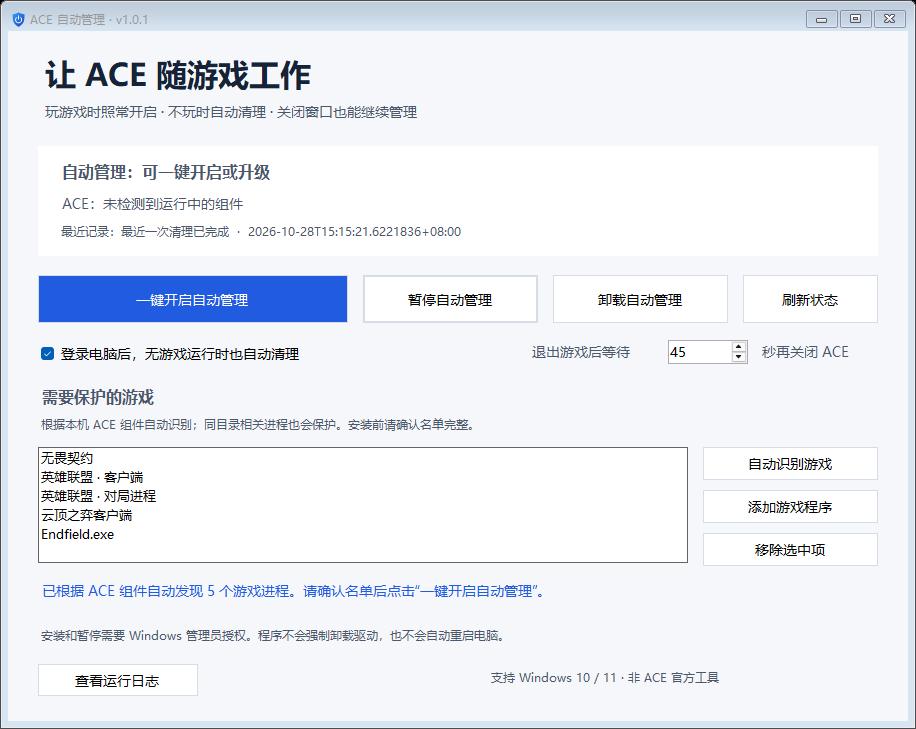
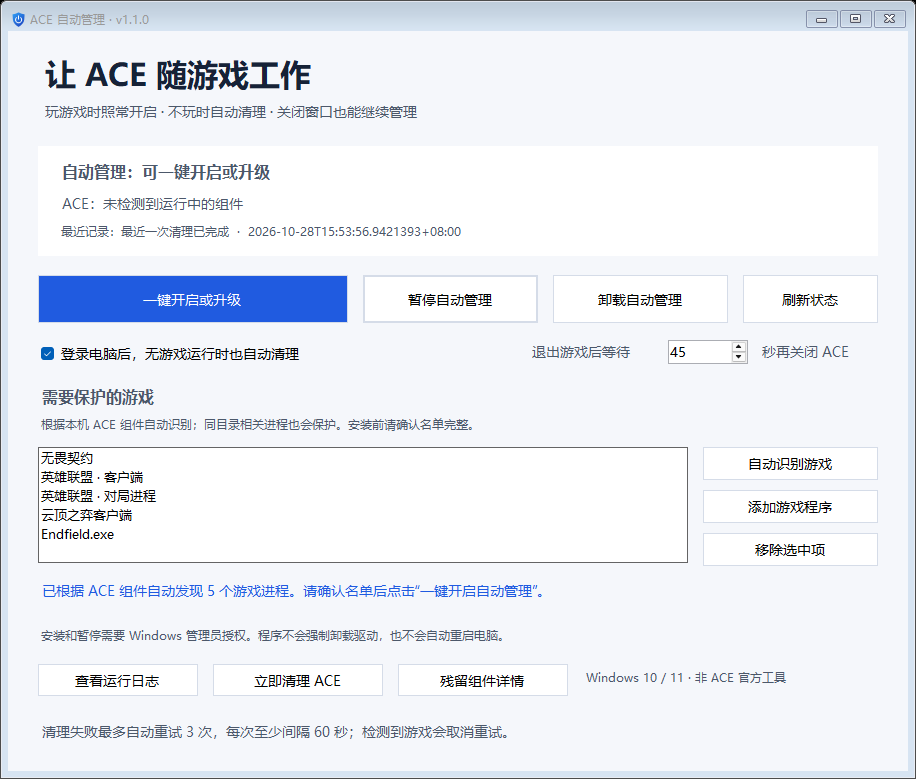
Add guarded manual cleanup, bounded retries and executable removal

diff --git a/src/Program.cs b/src/Program.cs
@@ -14,8 +14,8 @@ using System.Web.Script.Serialization;
 using Microsoft.Win32;
 
 [assembly: AssemblyTitle("ACE 自动管理")]
-[assembly: AssemblyVersion("1.0.1.0")]
-[assembly: AssemblyFileVersion("1.0.1.0")]
+[assembly: AssemblyVersion("1.1.0.0")]
+[assembly: AssemblyFileVersion("1.1.0.0")]
 
 namespace AceAutoManager {
     public class Settings {
@@ -40,6 +40,14 @@ namespace AceAutoManager {
                 if (stream == null) throw new IOException("缺少内置资源：" + name);
                 using (var reader = new StreamReader(stream, Encoding.UTF8)) return reader.ReadToEnd();
             }
+        }
+        internal static void ScheduleLauncherRemoval() {
+            string path=Application.ExecutablePath, hash;
+            using(var sha=System.Security.Cryptography.SHA256.Create())
+            using(var file=File.OpenRead(path)) { hash=BitConverter.ToString(sha.ComputeHash(file)).Replace("-",""); }
+            string script=Payload("Remove-Launcher.ps1").Replace("__TARGET_BASE64__",Convert.ToBase64String(Encoding.Unicode.GetBytes(path))).Replace("__EXPECTED_HASH__",hash);
+            var info=new ProcessStartInfo(PowerShell,"-NoProfile -NonInteractive -WindowStyle Hidden -EncodedCommand "+Convert.ToBase64String(Encoding.Unicode.GetBytes(script))){UseShellExecute=false,CreateNoWindow=true};
+            using(var process=Process.Start(info)) { if(process==null)throw new IOException("无法启动 EXE 删除程序。后台任务已卸载，请手动删除 EXE。"); }
         }
         // 管理员临时目录也限制为管理员和 SYSTEM 可写。
         internal static string Extract(bool protect) {
@@ -78,10 +86,11 @@ namespace AceAutoManager {
                 string dir = null;
                 try {
                     if (!new WindowsPrincipal(WindowsIdentity.GetCurrent()).IsInRole(WindowsBuiltInRole.Administrator)) throw new Exception("未获得管理员权限。");
-                    if (!new [] {"Install","Pause","Remove"}.Contains(args[1])) throw new Exception("无效操作。");
+                    if (!new [] {"Install","Pause","Remove","Clean"}.Contains(args[1])) throw new Exception("无效操作。");
                     dir = Extract(true);
                     var result = Json.Deserialize<Dictionary<string,object>>(RunBackend(dir,args[1],args[2]));
                     bool ok = result.ContainsKey("ok") && (bool)result["ok"];
+                    if(ok && args[1]=="Remove") ScheduleLauncherRemoval();
                     if (!ok) MessageBox.Show(Convert.ToString(result["message"]),"操作未完成",MessageBoxButtons.OK,MessageBoxIcon.Warning);
                     return ok ? 0 : 1;
                 } catch(Exception e) { MessageBox.Show(e.Message,"操作未完成",MessageBoxButtons.OK,MessageBoxIcon.Error); return 1; }
@@ -112,7 +121,8 @@ namespace AceAutoManager {
     public class MainForm : Form {
         readonly Color blue = Color.FromArgb(32,91,224);
         Label manager, ace, activity, feedback;
-        Button enable, pause, remove, detect, add, drop;
+        Button enable, pause, remove, detect, add, drop, clean, details;
+        string componentDetails="尚未读取组件状态。";
         CheckBox login;
         NumericUpDown delay;
         ListBox games;
@@ -123,7 +133,7 @@ namespace AceAutoManager {
         Settings settings = new Settings();
 
         public MainForm(bool test) {
-            Text="ACE 自动管理 · v1.0.1"; ClientSize=new Size(900,690); MinimumSize=new Size(916,729); MaximumSize=new Size(916,729);
+            Text="ACE 自动管理 · v1.1.0"; ClientSize=new Size(900,740); MinimumSize=new Size(916,779); MaximumSize=new Size(916,779);
             using (var stream = Assembly.GetExecutingAssembly().GetManifestResourceStream("app.ico"))
             using (var icon = new Icon(stream)) { Icon = (Icon)icon.Clone(); }
             AutoScaleMode=AutoScaleMode.None; Font=new Font("Microsoft YaHei UI",10F); BackColor=Color.FromArgb(245,247,251); StartPosition=FormStartPosition.CenterScreen;
@@ -138,7 +148,7 @@ namespace AceAutoManager {
             remove=ButtonAt("卸载自动管理",545,244,175,48);
             var status=ButtonAt("刷新状态",735,244,135,48);
             enable.Click += async(s,e)=>await Manage("Install"); pause.Click += async(s,e)=>await Manage("Pause");
-            remove.Click += async(s,e)=> { if(MessageBox.Show("停止并移除自动任务？ACE 本体不会被卸载，日志会保留。","卸载自动管理",MessageBoxButtons.YesNo,MessageBoxIcon.Question)==DialogResult.Yes) await Manage("Remove"); };
+            remove.Click += async(s,e)=> { if(MessageBox.Show("卸载后台任务，关闭此窗口，并删除当前运行的 EXE？\nACE 本体不会被卸载，配置和日志保留，其他位置的 EXE 副本不会删除。","卸载自动管理",MessageBoxButtons.YesNo,MessageBoxIcon.Question)==DialogResult.Yes) await Manage("Remove"); };
             status.Click += async(s,e)=>await RefreshStatus();
             login=new CheckBox {Text="登录电脑后，无游戏运行时也自动清理",Bounds=new Rectangle(33,309,460,29),Checked=true}; Controls.Add(login);
             LabelAt("退出游戏后等待",520,310,135,27,10,false);
@@ -156,7 +166,12 @@ namespace AceAutoManager {
             LabelAt("安装和暂停需要 Windows 管理员授权。程序不会强制卸载驱动，也不会自动重启电脑。",30,596,840,23,9,false);
             var log=ButtonAt("查看运行日志",30,633,160,32);
             log.Click+=(s,e)=>{string p=Path.Combine(Program.Data,"monitor.log");if(File.Exists(p)) Process.Start(new ProcessStartInfo("notepad.exe",Program.Quote(p)));else MessageBox.Show("暂时没有日志。");};
-            LabelAt("支持 Windows 10 / 11 · 非 ACE 官方工具",480,638,390,24,9,false);
+            LabelAt("Windows 10 / 11 · 非 ACE 官方工具",575,638,300,24,9,false);
+            clean=ButtonAt("立即清理 ACE",205,633,170,32);
+            details=ButtonAt("残留组件详情",390,633,170,32);
+            clean.Click+=async(s,e)=>await Manage("Clean");
+            details.Click+=async(s,e)=>{await RefreshStatus();if(!closed)MessageBox.Show(componentDetails,"ACE 残留组件 · 实时查询",MessageBoxButtons.OK,MessageBoxIcon.Information);};
+            LabelAt("清理失败最多自动重试 3 次，每次至少间隔 60 秒；检测到游戏会取消重试。",30,690,840,27,10,false);
             LoadSettings();
             if (!test) {
                 runtime=Program.Extract(false);
@@ -204,16 +219,17 @@ namespace AceAutoManager {
         async Task Manage(string mode) {
             if(busy||discovering)return;
             if(mode=="Install" && games.Items.Count==0) {MessageBox.Show("还没有识别到游戏。请先点击“自动识别游戏”，或手动添加游戏主程序。");return;}
-            busy=true;foreach(var b in new[]{enable,pause,remove,detect,add,drop})b.Enabled=false;
+            busy=true;foreach(var b in new[]{enable,pause,remove,detect,add,drop,clean})b.Enabled=false;
             feedback.Text="请完成 Windows 管理员授权，操作正在进行…";
             string request=Path.Combine(Path.GetTempPath(),"AceManager-request-"+Guid.NewGuid().ToString("N")+".json");
             try {
                 File.WriteAllText(request,Program.Json.Serialize(MakeSettings()),new UTF8Encoding(true));
                 int code=await Task.Run(()=>{var info=new ProcessStartInfo(Application.ExecutablePath,"--admin "+mode+" "+Program.Quote(request)){UseShellExecute=true,Verb="runas",WindowStyle=ProcessWindowStyle.Hidden};using(var p=Process.Start(info)){p.WaitForExit();return p.ExitCode;}});
-                feedback.Text=code==0 ? (mode=="Install"?"已开启自动管理，关闭窗口后仍会继续工作。":"自动管理已停止，ACE 本体和原始开机设置保留。") : "操作未完成；请查看弹窗信息后重试。";
+                feedback.Text=code==0 ? (mode=="Install"?"已开启或升级自动管理，关闭窗口后仍会继续工作。":mode=="Clean"?"清理请求已提交；后台会先检查游戏，请稍后刷新状态。":"自动管理已停止。") : "操作未完成；请查看弹窗信息后重试。";
+                if(code==0 && mode=="Remove") {busy=false;Close();return;}
             } catch(System.ComponentModel.Win32Exception e) {feedback.Text=e.NativeErrorCode==1223?"管理员授权已取消，设置未更改。":e.Message;}
             catch(Exception e) {feedback.Text="操作未完成："+e.Message;}
-            finally {try{File.Delete(request);}catch{}busy=false;foreach(var b in new[]{enable,pause,remove,detect,add,drop})b.Enabled=true;}
+            finally {try{File.Delete(request);}catch{}busy=false;if(!closed)foreach(var b in new[]{enable,pause,remove,detect,add,drop,clean})b.Enabled=true;}
             await RefreshStatus();
         }
         async Task RefreshStatus() {
@@ -224,14 +240,27 @@ namespace AceAutoManager {
                 var d=Program.Json.Deserialize<Dictionary<string,object>>(output);
                 if(!(bool)d["ok"])throw new Exception(Convert.ToString(d["message"]));
                 bool installed=(bool)d["installed"],alive=(bool)d["monitorAlive"];
+                enable.Text=installed?"一键开启或升级":"一键开启自动管理";
                 manager.Text=alive?"自动管理：后台运行中":(installed?"自动管理：可一键开启或升级":"自动管理：尚未安装");manager.ForeColor=alive?Color.FromArgb(12,125,91):Color.FromArgb(76,88,106);
                 int count=Program.CountItems(d["drivers"])+Program.CountItems(d["services"])+Program.CountItems(d["processes"]);
                 ace.Text=count>0?"ACE：检测到 "+count+" 个运行中的组件":"ACE：未检测到运行中的组件";
                 var st=d["status"] as Dictionary<string,object>;
+                var detailText=new StringBuilder("查询时间："+DateTime.Now.ToString("yyyy-MM-dd HH:mm:ss")+"\r\n");
+                foreach(string group in new[]{"drivers","services","processes"}) {
+                    detailText.AppendLine("\r\n"+(group=="drivers"?"驱动":group=="services"?"服务":"进程")+"：");
+                    var items=d[group] as System.Collections.IEnumerable;
+                    if(Program.CountItems(d[group])==0)detailText.AppendLine("未检测到运行中的组件");
+                    if(items!=null)foreach(object item in items) {var row=item as Dictionary<string,object>;if(row!=null)detailText.AppendLine(Convert.ToString(row["Name"])+"  ·  "+(row.ContainsKey("State")?Convert.ToString(row["State"]):"PID "+Convert.ToString(row["ProcessId"])));}
+                }
+                if(st!=null && st.ContainsKey("detail"))detailText.AppendLine("\r\n最近记录："+Convert.ToString(st["detail"]));
+                componentDetails=detailText.ToString();
                 var words=new Dictionary<string,string>{{"Startup","正在准备登录后检查"},{"Idle","等待游戏启动"},{"Active","游戏或客户端运行中，暂不关闭"},{"Waiting","等待连续无游戏时段"},{"Closed","最近一次清理已完成"},{"Partial","仍有组件未关闭，请查看日志"},{"Attention","检测或关闭遇到问题，请查看日志"},{"Paused","已暂停"},{"Removed","自动任务已移除"}};
                 string state=st!=null&&st.ContainsKey("state")?Convert.ToString(st["state"]):"";
+                words["Retrying"]="清理未完成，等待自动重试（最多 3 次）"; words["Blocked"]="检测到游戏或客户端，已取消立即清理";
+                words["Cleaning"]="正在清理 ACE，完成后将核验残留组件";
+                words["RetryExhausted"]="已达 3 次重试上限，请查看残留组件和日志";
                 activity.Text=st==null?"点击“一键开启自动管理”开始使用。":"最近记录："+(words.ContainsKey(state)?words[state]:state)+(st.ContainsKey("updatedAt")?"  ·  "+Convert.ToString(st["updatedAt"]):"");
-            }catch(Exception e){if(!closed){manager.Text="状态读取失败";activity.Text=e.Message;}}
+            }catch(Exception e){if(!closed){manager.Text="状态读取失败";activity.Text=e.Message;componentDetails="实时查询失败，不能据此判断 ACE 已关闭。\r\n"+e.Message;}}
             finally {checking=false;if(closed&&!discovering)Program.Clean(runtime);}
         }
     }

diff --git a/README.md b/README.md
@@ -27,6 +27,9 @@
 - **自动发现 ACE 游戏**：读取安装记录及 Steam / WeGame 游戏库，找到真实 ACE 组件文件后再关联相邻游戏程序，不依赖固定游戏名称白名单。
 - **目录级保护**：同时留意已识别游戏目录内的其他进程，游戏新增子进程或客户端仍在运行时，保守推迟清理。
 - **状态实测**：查询服务、驱动和进程，部分组件未停止时不会当作“全部关闭”。
+- **立即清理 ACE**：安装或升级后台后可提交即时清理请求，不等待通常的退出倒计时；后台仍会逐步核对游戏状态，有游戏或客户端时拒绝清理。
+- **残留组件详情**：实时列出未停止的驱动、服务及进程 PID，并显示最近清理记录。
+- **失败自动重试**：首次清理未完成后最多再尝试 3 次，每次间隔至少 60 秒（设置更长时采用设置值）。游戏或客户端出现会取消重试，退出后重新累计静默期；达到上限后等待新的游戏会话或手动请求。
 - **保留启动能力**：不修改 ACE 原始开机项或驱动启动类型；游戏自行启动 ACE，本工具不伪造或绕过反作弊。
 
 ### 支持范围
@@ -48,16 +51,20 @@
 
 ### 权限、暂停与卸载
 
-查看窗口和读取状态不要求管理员权限。安装、升级、暂停、卸载自动任务时，Windows 会请求管理员授权。
+查看窗口和读取状态不要求管理员权限。安装、升级、暂停、立即清理和卸载自动任务时，Windows 会请求管理员授权。
 
 - “暂停自动管理”：停用后台任务，ACE 当前状态及其原始启动配置不变。再次点击“一键开启自动管理”恢复。
-- “卸载自动管理”：移除自动任务，**不卸载 ACE 本体**。保留安装文件和日志，便于排查；可重新安装。
+- “卸载自动管理”：确认后移除自动任务、关闭当前窗口，并删除**当前运行的 EXE**，不删除其他位置的副本，**不卸载 ACE 本体**。后台安装文件、配置和日志保留，便于排查及重新安装。文件仍被占用时最多等待约一分钟；文件内容已改变则取消删除；删除失败会弹窗提示，结果记入日志目录的 `uninstall-result.json`。
 - 程序不会自动重启电脑，不会修改 ACE 二进制文件，不会强制卸载拒绝停止的驱动。
 - 登录后清理开启时，单纯重启会再次触发清理；若游戏要求预启动，可先暂停本工具。
 
 后台脚本与配置存放在 `%ProgramFiles%\AceGameAutoClose`，只有管理员和 SYSTEM 可写；日志位于 `%ProgramData%\AceGameAutoClose`。程序自身不上传数据，也不访问网络。
 
 本项目是非官方工具，与腾讯、ACE 及游戏发行商无隶属关系。当前 EXE 未进行商业代码签名；下载时请核对本仓库发布页及 `SHA256SUMS.txt`。
+
+### 更新旧版本
+
+下载新版 EXE 并打开，程序读取已有游戏名单、等待时间及登录清理设置。确认名单后点击“一键开启或升级”，覆盖已安装的后台脚本并更新同一个计划任务。无需先卸载，也不会替换桌面或下载文件夹里的其他 EXE。升级失败时尝试恢复旧脚本、配置及任务。旧后台需要完成这一步升级，才能使用立即清理和自动重试。
 
 ### 从源码构建
 
@@ -75,9 +82,11 @@ powershell -NoProfile -ExecutionPolicy Bypass -File .\tests\Test-Cleanup.ps1
 powershell -NoProfile -ExecutionPolicy Bypass -File .\tests\Test-Backend.ps1
 powershell -NoProfile -ExecutionPolicy Bypass -File .\tests\Test-Discovery.ps1
 powershell -NoProfile -ExecutionPolicy Bypass -File .\tests\Test-DirectoryGuard.ps1
+powershell -NoProfile -ExecutionPolicy Bypass -File .\tests\Test-Retry.ps1
+powershell -NoProfile -ExecutionPolicy Bypass -File .\tests\Test-Uninstall.ps1
 ```
 
-覆盖 42 项检查：22 项启动/会话状态、5 种隔离关闭场景、7 项配置校验、4 项自动发现、4 项目录保护，另有构建时 EXE 自检。关闭测试使用模拟对象，不操作真实服务或驱动。已检查真实中文窗口、自动发现和只读状态接口；不代表所有机器上的管理员安装流程、反作弊版本均已验证。
+覆盖 59 项检查：22 项启动/会话状态、5 种隔离关闭场景、7 项配置校验、4 项自动发现、4 项目录保护、13 项重试及手动清理决策、4 项文件删除检查，另有构建时 EXE 自检。关闭测试使用模拟对象，不操作真实服务或驱动；删除测试仅使用临时测试文件。已检查真实中文窗口、自动发现和只读状态接口；不代表所有机器上的管理员安装、卸载流程及反作弊版本均已验证。
 
 ### 许可证
 

diff --git a/docs/RELEASE-v1.1.0.md b/docs/RELEASE-v1.1.0.md
@@ -1,0 +1,13 @@
+# v1.1.0
+
+新增立即清理、残留组件详情和失败自动重试，方便游戏结束后确认 ACE 是否已经关闭。
+
+- 立即清理请求交由后台串行执行；发现游戏或相关客户端时拒绝关闭，停止各组件前仍会复查。
+- 实时列出残留驱动、服务、进程及 PID。
+- 清理失败最多额外重试 3 次，间隔至少 60 秒；检测到游戏取消重试，退出后重新计时。
+- 卸载确认后移除任务、关闭窗口并删除当前运行的 EXE；保留其他副本、后台安装文件、配置和日志。文件被替换时停止删除，删除失败会提示。
+- 识别已有安装并显示“一键开启或升级”，读取已有设置后覆盖后台，不替换其他下载的 EXE。
+
+**旧用户：打开新版后点击“一键开启或升级”，才能启用新版后台功能。**
+
+59 项检查及 EXE 构建自检通过。服务关闭使用隔离模拟测试，EXE 删除使用临时文件测试；已检查实际界面，未完成所有机器上的管理员升级与卸载全流程测试。
